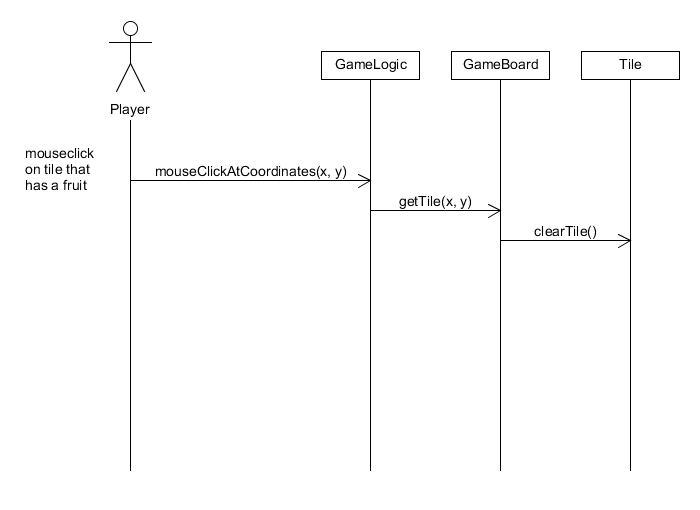
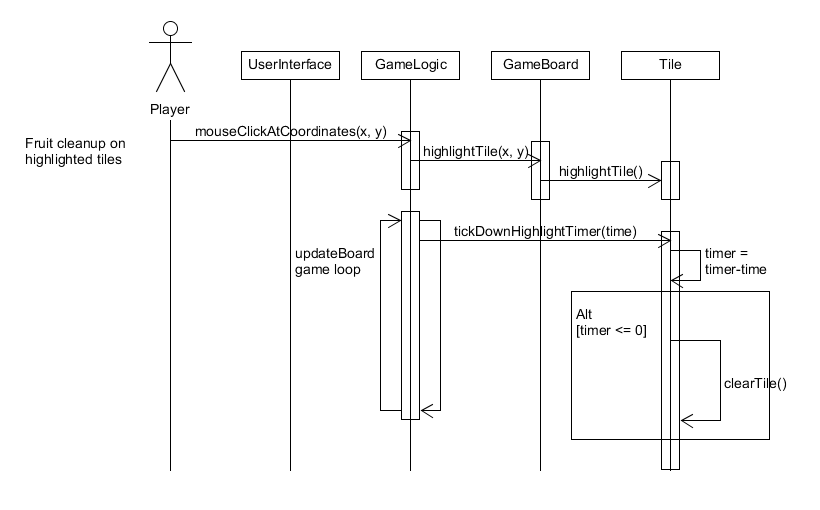
päivitetty dokumentaatiota

diff --git a/HimmunHedelmaPeli/src/main/java/com/zirinna/himmunhedelmapeli/gameobjects/Tile.java b/HimmunHedelmaPeli/src/main/java/com/zirinna/himmunhedelmapeli/gameobjects/Tile.java
@@ -74,13 +74,6 @@ public class Tile {
     }
     
     /**
-     * Removes the fruit.
-     */
-    private void highlightClear() {
-        this.fruit = null;
-    }
-    
-    /**
      * Tick down the highlight timer on this tile, signalling
      * it to clear the tile if the timer gets to zero.
      * @param time Passed time in seconds
@@ -92,7 +85,7 @@ public class Tile {
         this.highlighttime = highlighttime - time;
         if (highlighttime < 0)  {
             highlighttime = 0;
-            this.highlightClear();
+            this.clearTile();
         }
     }
 
